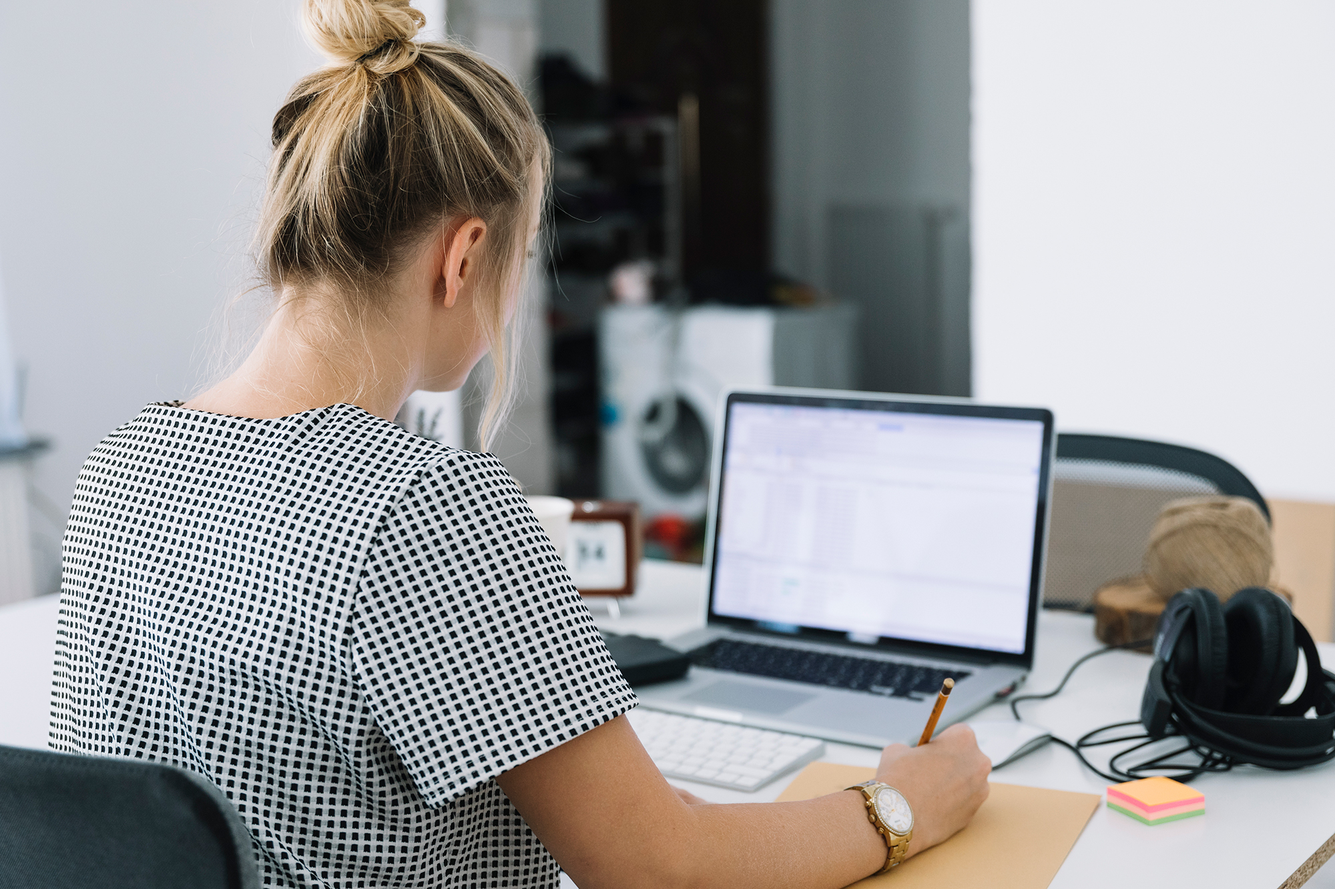
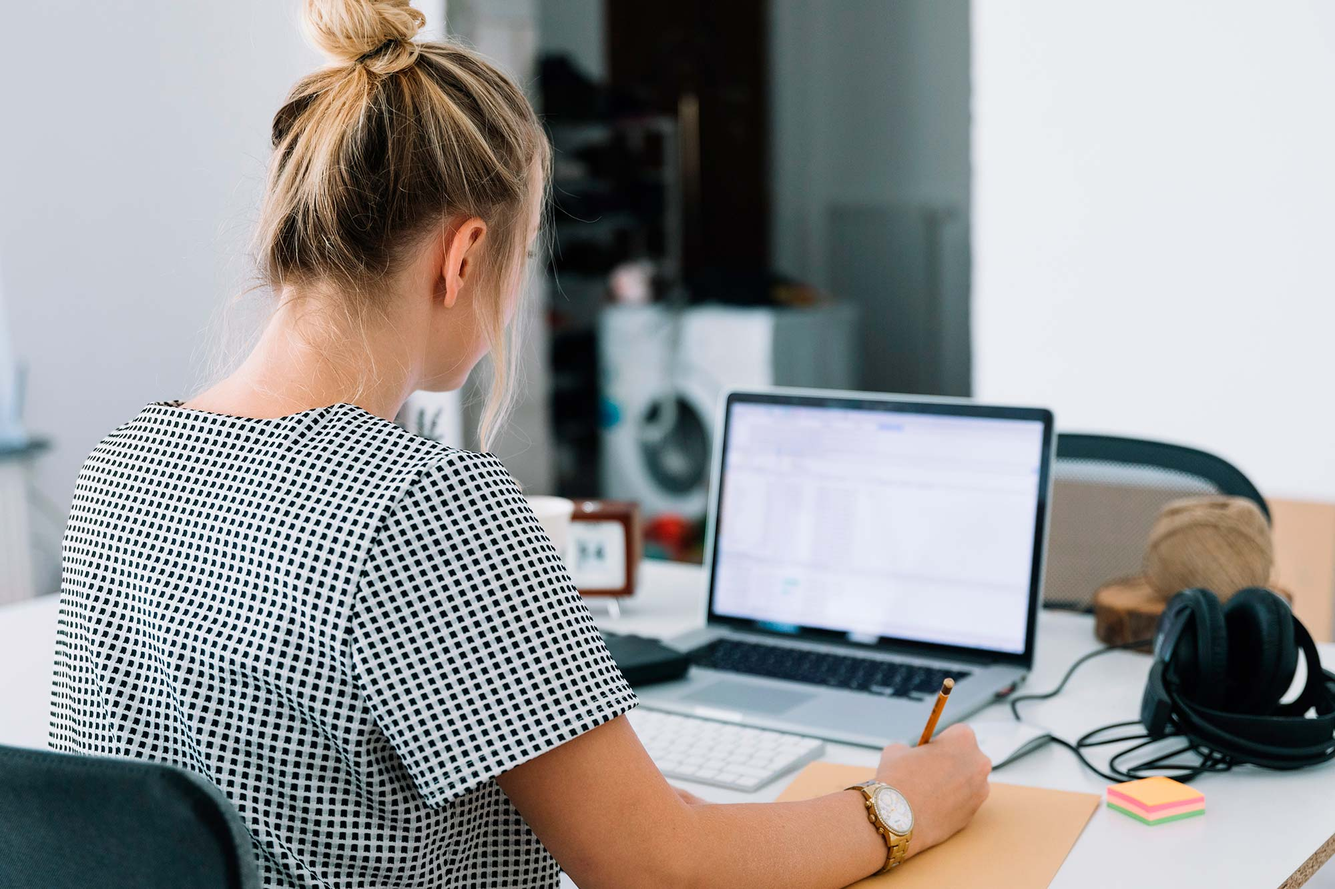
Ajuste no tamanho das imagens, e melhoria no codigo da tela de login

diff --git a/src/app/account/auth/login/login.component.ts b/src/app/account/auth/login/login.component.ts
@@ -14,7 +14,7 @@ export class LoginComponent implements OnInit {
   error = '';
   returnUrl: string;
   currentUser: any;
-  public loading = true;
+  public loading: boolean;
 
   constructor(
     private formBuilder: FormBuilder,
@@ -33,9 +33,6 @@ export class LoginComponent implements OnInit {
     // Obter o returnUrl dos queryParams
     this.returnUrl = this.route.snapshot.queryParams['returnUrl'] || '/';
 
-    setTimeout(() => {
-      this.loading = false;
-    }, 3000);
   }
 
   get f() {
@@ -43,6 +40,7 @@ export class LoginComponent implements OnInit {
   }
 
   validarLogin(event: Event) {
+    this.loading = true;
     event.preventDefault();
     this.submitted = true;
     this.error = '';
@@ -53,16 +51,18 @@ export class LoginComponent implements OnInit {
 
     const { sigla, login, senha } = this.loginForm.value;
 
-    this.authenticationService.login(sigla, login, senha)
-      .subscribe( data => {
+    this.authenticationService.login(sigla, login, senha).subscribe( data => {
           if (data && data['success'] === 'true') {
+            this.loading = false;
             this.router.navigate([this.returnUrl]);
             this.currentUser = this.authenticationService.getCurrentUser();
           } else {
+            this.loading = false;
             this.error = data['msg'] || 'Erro ao tentar autenticar.';
           }
         },
         error => {
+          this.loading = false;
           this.error = error.message || 'Ocorreu um erro ao tentar autenticar. Por favor, tente novamente.';
         });
   }

diff --git a/src/app/account/auth/login/login.component.html b/src/app/account/auth/login/login.component.html
@@ -43,14 +43,14 @@
                     </div>
 
                     <div class="mt-4 text-center">
-                      <button type="submit" class="btn btn-primary w-md waves-effect waves-light">Entrar</button>
+                      <button type="submit" class="btn btn-primary w-md waves-effect waves-light"><i class="mdi mdi-login"></i> Entrar</button>
                     </div>
 
                   </form>
                 </div>
 
                 <div class="mt-5 text-center">
-                  <p>© 2023 Portal Facilitador</p>
+                  <p>© 2024 Portal Facilitador</p>
                 </div>
               </div>
             </div>
